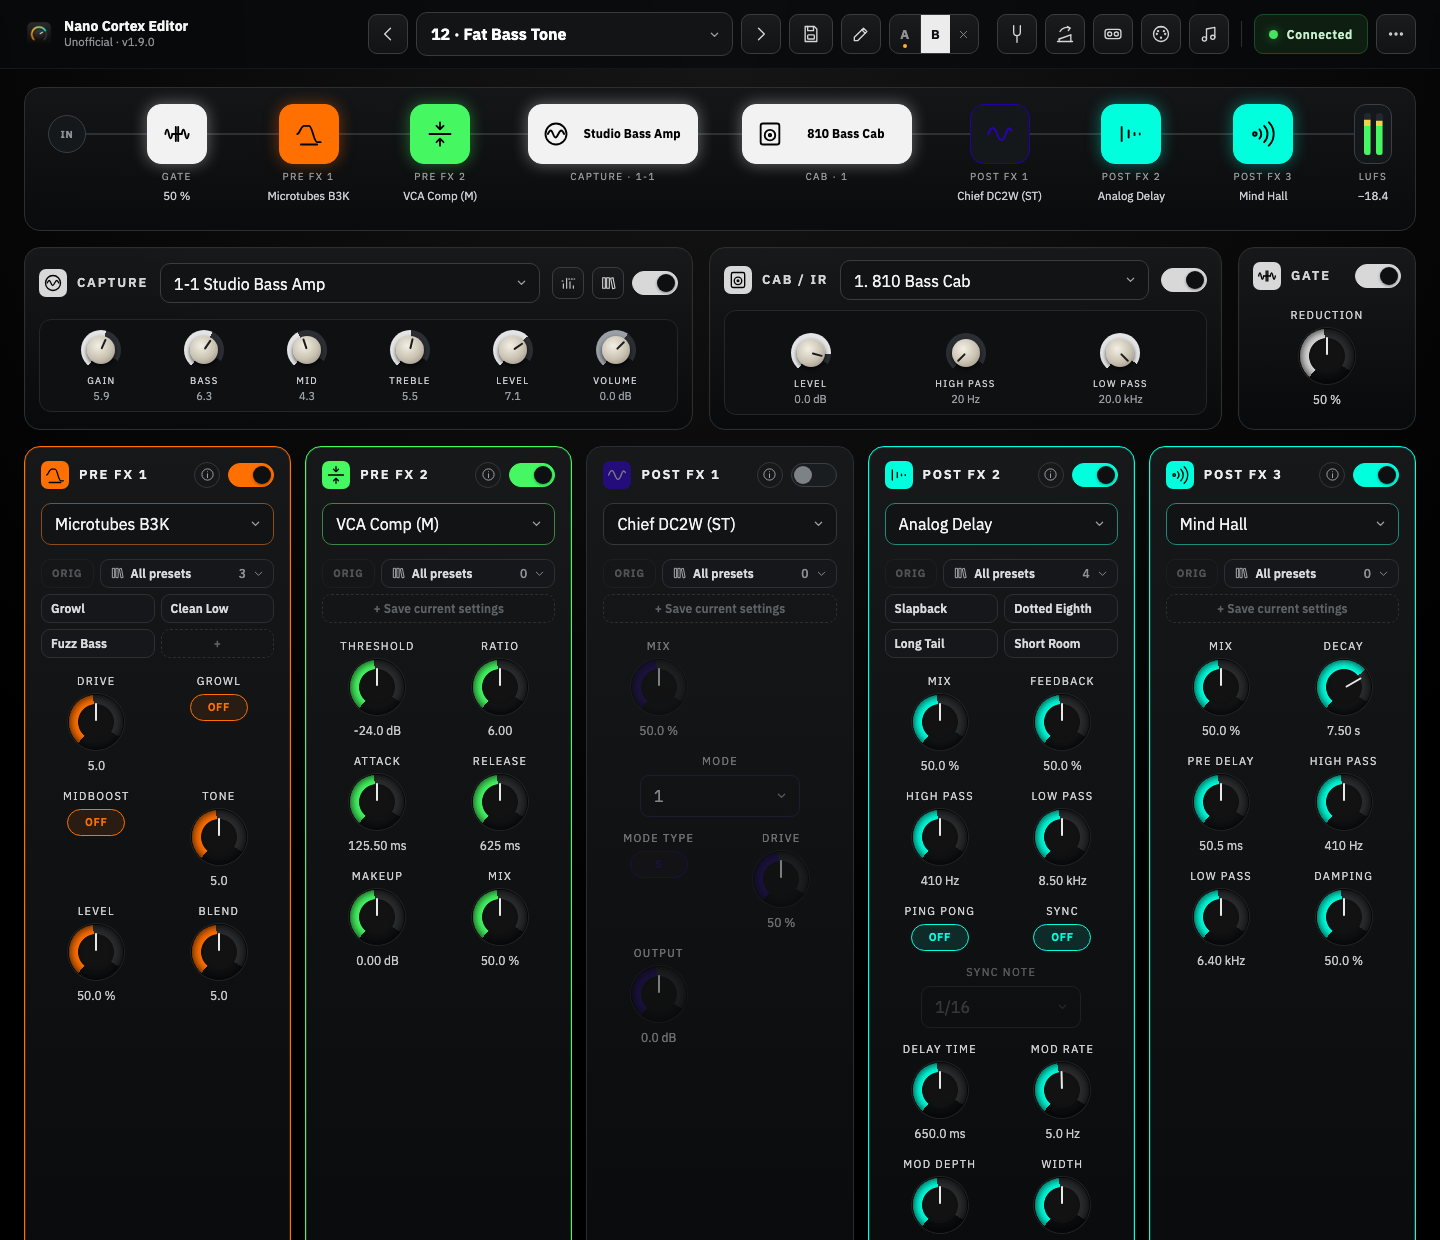
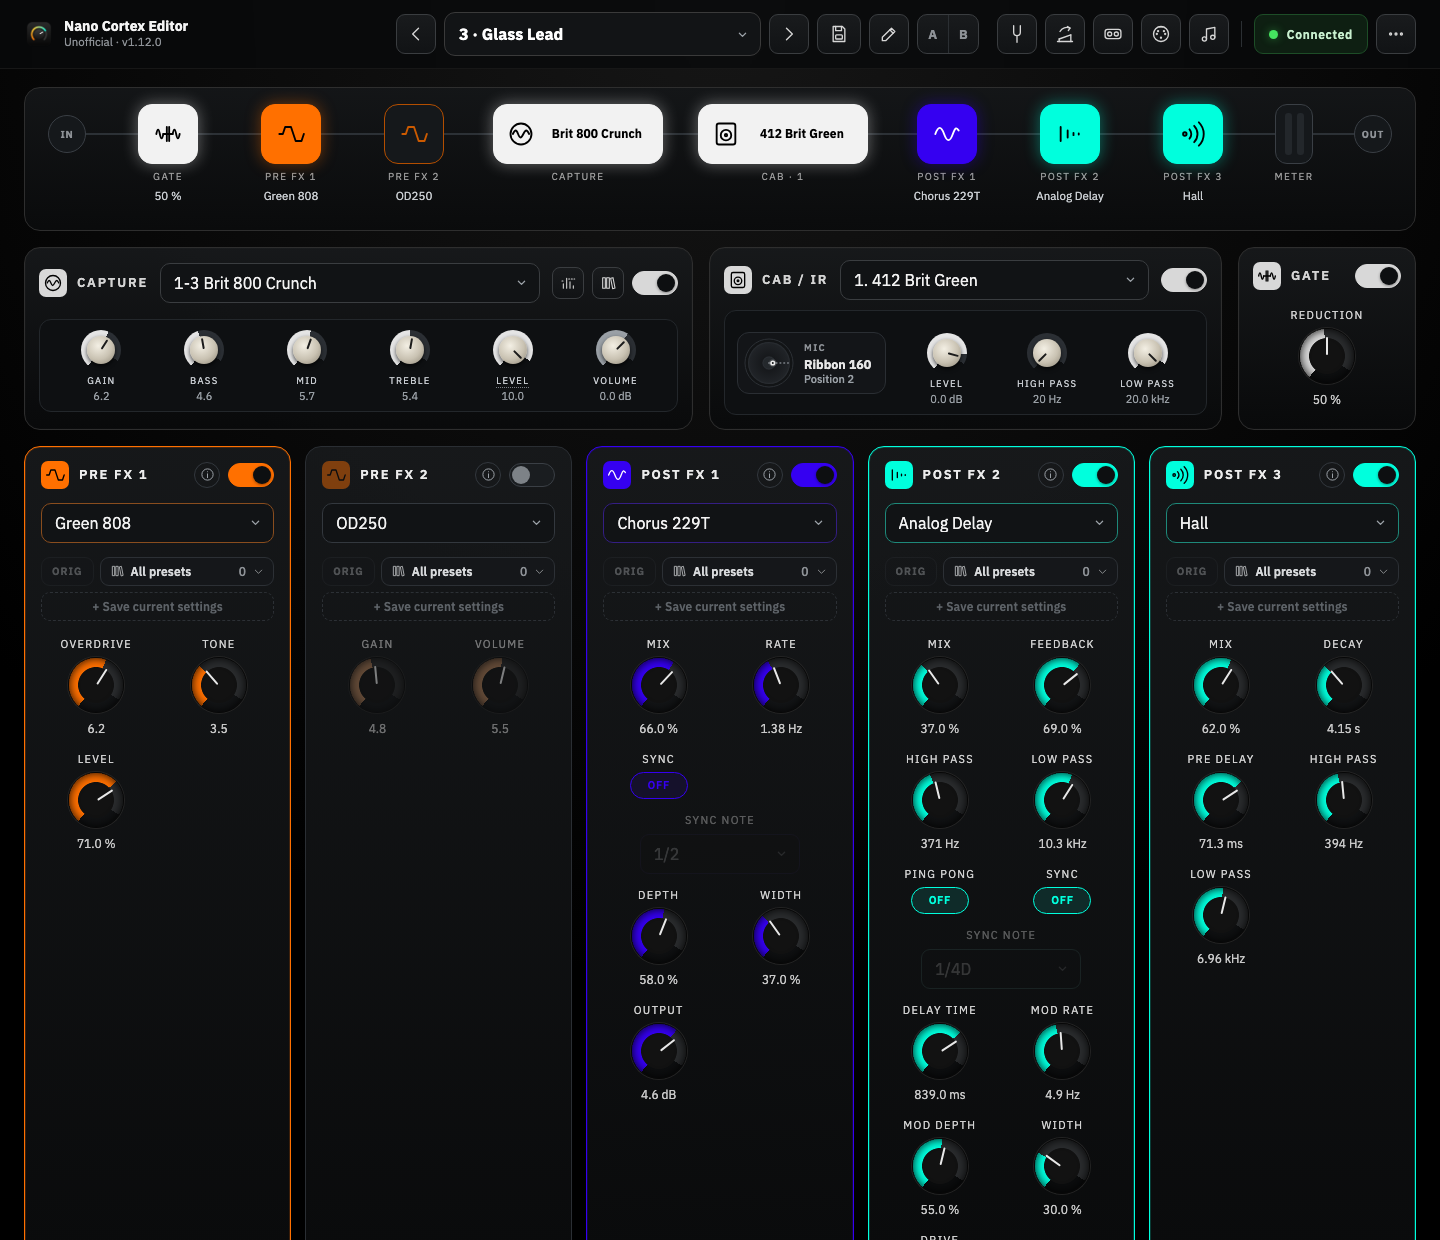
Preset sharing

diff --git a/index.html b/index.html
@@ -1859,6 +1859,7 @@
       <div class="tuner-head">
         <div class="block-title" style="--block-color: #f2f2f2;"><span class="fx-icon" style="--icon: var(--ico-list)"></span><h2 class="dlg-title">Shared presets</h2></div>
         <div class="head-actions">
+          <button id="sharedRefresh" class="btn-small" title="Ask GitHub again – for a preset that was just shared">Refresh</button>
           <button id="sharedShare" class="btn-small" title="Share the current preset on GitHub">Share this preset…</button>
           <button id="sharedClose" class="dlg-close" title="Close (Esc)" aria-label="Close"><span class="ico" style="--icon: var(--ico-close)"></span></button>
         </div>
@@ -7060,13 +7061,13 @@ function parseSelectedCaptureState(payload) {
 
     // ---- Shared presets (GitHub) ----
     // Presets are shared as issues of the editor's project on GitHub, written with the form
-    // .github/ISSUE_TEMPLATE/preset.yml (label "preset"): name, short description, the exact name of the capture and
-    // where to get it, and the preset file. The editor lists the open ones (GitHub's API without login: 60 requests an
-    // hour) and checks for each whether its capture and cab are on this Nano - in a slot, in its library (the import
-    // loads them), or missing, with the exact name to look for. Closing an issue (or taking its label away) takes a
-    // preset off the list.
+    // .github/ISSUE_TEMPLATE/preset.yml: name, short description, the exact name of the capture and where to get it,
+    // and the preset file. The editor lists every open issue that holds a preset - with or without the label
+    // "preset", which GitHub only gives when the label exists (the first two presets came without it) - through
+    // GitHub's API without login (60 requests an hour), and checks for each whether its capture and cab are on this
+    // Nano: in a slot, in its library (the import loads them), or missing, with the exact name to look for. Closing an
+    // issue takes a preset off the list.
     const SHARE_REPO = 'DrD85/nano-cortex-editor';
-    const SHARE_LABEL = 'preset';
     const SHARE_FIELDS = { 'Preset name': 'name', 'Short description': 'description', 'Capture – exact name': 'capture',
       'Where to get the capture': 'source', 'Cab / IR': 'cab', 'Guitar or bass': 'instrument', 'Preset file': 'file' };
     const SHARE_URL_MAX = 6000;   // a longer form link goes without the preset (it is on the clipboard)
@@ -7127,7 +7128,7 @@ function parseSelectedCaptureState(payload) {
       shared.error = '';
       renderShared();
       try {
-        const res = await fetch('https://api.github.com/repos/' + SHARE_REPO + '/issues?labels=' + SHARE_LABEL + '&state=open&per_page=100',
+        const res = await fetch('https://api.github.com/repos/' + SHARE_REPO + '/issues?state=open&per_page=100',
           { headers: { Accept: 'application/vnd.github+json' } });
         if (res.status === 403 || res.status === 429) throw new Error('GitHub lets a computer without login ask 60 times an hour – try again in a while.');
         if (!res.ok) throw new Error('GitHub answered with ' + res.status + '.');
@@ -7218,7 +7219,8 @@ function parseSelectedCaptureState(payload) {
       const items = (shared.items || []).filter(item => !q || [item.name, item.description, item.captureText, item.source, item.instrument, item.user,
         item.data.capture && item.data.capture.name, item.data.cab && item.data.cab.name,
         ...FX_BLOCK_KEYS.map(key => item.data.fx && item.data.fx[key] && item.data.fx[key].model)].join(' ').toLowerCase().includes(q));
-      if (shared.loading && !shared.items) count.textContent = 'Loading the shared presets from GitHub …';
+      $('sharedRefresh').disabled = shared.loading;
+      if (shared.loading) count.textContent = 'Loading the shared presets from GitHub …';
       else if (shared.error) count.textContent = shared.error;
       else if (shared.items) count.textContent = items.length + (q ? ' of ' + shared.items.length : '') + ' shared preset' + (shared.items.length === 1 ? '' : 's') +
         ' – what each needs is checked against your Nano' + (state.connected ? '.' : ' once it is connected.');
@@ -7256,6 +7258,7 @@ function parseSelectedCaptureState(payload) {
     });
     $('sharedSearch').addEventListener('input', e => { shared.q = e.target.value; renderShared(); });
     $('sharedClose').addEventListener('click', closeShared);
+    $('sharedRefresh').addEventListener('click', () => loadShared(true));
     $('sharedShare').addEventListener('click', () => { closeShared(); openShare(); });
     $('sharedOverlay').addEventListener('click', e => { if (e.target === $('sharedOverlay')) closeShared(); });
     $('sharedBtn').addEventListener('click', openShared);

diff --git a/README.md b/README.md
@@ -56,10 +56,12 @@ It runs in the browser (Chrome, Edge – online at **https://drd85.github.io/nan
 - **Output level** (Mac app, Nano connected with a USB-C cable as well): a small stereo meter before the **OUT** of the
   signal chain shows the Nano's sound from its USB audio (channels 3/4) – peaks left and right, below them the loudness in
   LUFS. Click it for the large meter. macOS asks once for the audio input ("microphone"); nothing is recorded
-- **Auto level**: choose **Clean**, **Drive**, **Solo** or **Fuzz**, press **Start** and play for four seconds – with
-  Level at 10 (full output), the capture volume is set so that the preset lands on the loudness of its kind (clean
-  lowest, solo about 3 dB above drive) and its peaks stay below full scale. The four targets can be changed;
-  **Only measure** reads a preset you like and can take it as the target
+- **Auto level**: choose **Clean**, **Edge**, **Drive**, **Fuzz** or **Lead**, press **Start** and play for four
+  seconds – with Level at 10 (full output), the capture volume is set so that the preset lands on the loudness of its
+  kind and its peaks stay below full scale. The targets follow the dynamics of a band: Clean is the quietest, Edge,
+  Drive and Fuzz sound a little louder, Lead stands out over Drive. **Quiet** (at home) or **Rehearsal** (loud with the
+  band) corrects for how the ear hears at that volume. **Only measure** reads a preset you like and can take it as
+  the target
 - **Jam tracks**: a player along the bottom of the window (the note symbol). Choose the folder with your backing
   tracks once: every track is measured and played at one loudness just below your presets, so you can play along
   without touching a volume – the files stay as they are. A track that still sits differently against the guitar
@@ -164,16 +166,27 @@ recorded or sent anywhere.
   of playing (pauses do not count) the capture volume moves by the distance to the target, at most so far that the
   peaks stay 1 dB below full scale. **Undo** takes it back, **Save** keeps it. If the capture volume reaches the end of
   its range (−24 to +12 dB), the note says how much is missing.
-- **Level at 10**: the signal on USB follows the preset's Level (the LEVEL knob on the Nano). So Auto level first reads
+- **Level at 10**: the signal on USB follows the Nano's Level (its LEVEL knob, the master volume). So Auto level first reads
   the preset from the Nano and measures with Level at 10, the full output, and leaves it there – the capture volume
   alone sets how loud a preset is, and all presets compare. If Level is lower, the first press says so and the second
   sets it: that gets louder, so turn your monitors down first. Auto level changes nothing else.
 - **Levelled presets**: the editor remembers for each preset what it was levelled as and how loud it measured. The
-  preset list shows it behind the name – `✓ Drive −19.0` on target, `Drive −21.3 (−2.3)` beside it – once the preset
+  preset list shows it behind the name – `✓ Drive −17.5` on target, `Drive −19.8 (−2.3)` beside it – once the preset
   is saved. The note goes when the saved preset no longer fits it (another capture volume, Level off 10) or with
   **Forget** in the dialog. It is kept in this browser or app, not on the Nano.
-- **Targets**: Clean −20, Drive −19, Solo −16 and Fuzz −19 LUFS are a starting point. They can be typed in; with
-  **Only measure** on a preset you like and *Take … as the target* all four move by the same amount.
+- **Targets**: made the same way as in the LUFS Meter, of three parts:
+  - **Clean**, the quietest sound, at **−20 LUFS**;
+  - **steps** – how much louder a sound should *sound* than Clean: Edge **+1.5 dB**, Drive and Fuzz **+3 dB**, Lead
+    **+3 dB over Drive**;
+  - the **profile** of where you play. At equal LUFS the mid-heavy sounds seem louder than Clean, at low volume more
+    than at high volume (equal-loudness contours, ISO 226). **Quiet** – at home, about 60–75 dB at your ears – takes
+    2 dB off Drive and Lead, 1 dB off Fuzz and 0.5 dB off Edge; **Rehearsal** – with the band, about 95–105 dB – takes
+    0.5 dB off each of them.
+
+  In Rehearsal that gives Clean −20, Edge −19, Drive −17.5, Fuzz −17.5 and Lead −14.5 LUFS; in Quiet Clean −20, Edge
+  −19, Drive −19, Fuzz −18 and Lead −16. The level of Clean and the steps can be typed in; *Take … as the target* after
+  **Only measure** moves the level of Clean and all others with it. Presets levelled as *Solo* before 1.12.0 count as
+  *Lead*. The jam tracks follow the Drive target.
 
 **Mac app or browser?** Channels 3/4 need the Mac app: it reads the input with a small helper
 (`mac-app/native/nano-meter.swift`). A browser on the Mac opens every input with more than two channels as stereo, so
@@ -192,7 +205,8 @@ m4a (AAC), wav, flac and ogg; the Mac app also plays **Apple Lossless** (m4a), A
 
 - **One level for all tracks:** each track is measured once (integrated loudness, ITU-R BS.1770, the same scale as
   the output meter) and then played with the gain that brings it to the level shown in the player. That level is
-  counted from the **Drive** target of Auto level, 2 LU below it to begin with (−21 LUFS); **−** and **+** of
+  counted from the **Drive** target of Auto level, 2 LU below it to begin with (−19.5 LUFS with the Rehearsal targets, −21 with
+  Quiet); **−** and **+** of
   *LUFS · all* move all tracks together. The files are not changed, and the measurements are remembered.
 - **The bass counts less:** of two tracks at the same LUFS, the one with less bass has more of its sound where the
   guitar plays, and seems louder against it. The tracks are therefore matched on their loudness without the bass
@@ -270,21 +284,25 @@ the Nano to the Mac is all it needs; no Bluetooth.
 
 ## Shared presets
 
-Presets are shared on GitHub, as issues of this project with the label `preset` – a small upload platform without a
-server of its own. Sharing needs a free GitHub account; looking and loading does not.
+Presets are shared on GitHub, as issues of this project made with the form *Share a preset* – a small upload platform
+without a server of its own. Sharing needs a free GitHub account; looking and loading does not.
+
+![Shared presets](docs/shared-presets.png)
 
 - **Load one:** **…** → **Shared presets**. Each card shows the description, who shared it, the capture with its exact
   name and where to get it (factory capture or Cortex Cloud and who made it), the cab, the effects – and whether your
   Nano has what the preset needs: *✓ On your Nano*, *In your Nano's library* (the import puts it into a slot) or
   *Missing on your Nano* (with **Copy name**, to look for it in Cortex Cloud). **Load into preset N** works like
-  importing a file: nothing is stored until you press **Save**. Questions and 👍 go to **On GitHub**.
+  importing a file: nothing is stored until you press **Save**. Questions and 👍 go to **On GitHub**; **Refresh** asks
+  GitHub again (for a preset that was just shared).
 - **Share one:** **…** → **Share this preset**. The editor reads the preset like for an export, puts it on the
   clipboard and opens the form [Share a preset](https://github.com/DrD85/nano-cortex-editor/issues/new?template=preset.yml)
   in the browser with the name, the capture, where to get it and the cab filled in. Paste the preset into *Preset
   file* if it is not filled in already, write a short description and submit.
-- **For the project:** the label `preset` must exist (Issues → Labels), else the form cannot set it and the editor
-  does not list the preset. Closing an issue, or taking its label away, takes a preset off the list. Without login,
-  GitHub answers a computer 60 times an hour; the editor asks once when the list opens and keeps it for ten minutes.
+- **For the project:** the editor lists every open issue that holds a preset; closing an issue takes it off the list.
+  The form also gives the label `preset` once that label exists (Issues → Labels) – handy for filtering on GitHub,
+  not needed by the editor. Without login, GitHub answers a computer 60 times an hour; the editor asks once when the
+  list opens and keeps it for ten minutes, unless you press **Refresh**.
 
 ## MIDI controller
 
@@ -344,7 +362,8 @@ Captures und Cabs lädst du aus der Library des Geräts. Dazu gibt es einen Tune
 für das Expression-Pedal und die Steuerung per MIDI-Controller mit MIDI Learn.
 Mit **A | B** vergleichst du den gemerkten Stand mit deinen Änderungen. Ist der Nano zusätzlich per USB-C verbunden,
 zeigt die Mac-App seinen Ausgangspegel (USB-Kanäle 3/4) und stellt mit **Auto level** die Capture-Lautstärke nach ein
-paar Sekunden Spielen passend für Clean, Drive, Solo oder Fuzz ein. Im Browser kommen am Mac nur die Kanäle 1/2 (DI) an.
+paar Sekunden Spielen passend für Clean, Edge, Drive, Fuzz oder Lead ein – für leise zu Hause (Quiet) oder laut mit
+der Band (Rehearsal). Im Browser kommen am Mac nur die Kanäle 1/2 (DI) an.
 Unten im Fenster lässt sich ein **Jamtrack-Player** einblenden: Ordner wählen, und alle Tracks laufen gleich laut,
 knapp unter deinen Presets; der Nano Cortex Controller schaltet sie im Looper-Modus mit den Fußschaltern.
 Die EQ-Modelle zeigen eine **Kurve mit Punkten zum Ziehen** statt Knopfreihen, in der Mac-App mit dem Spektrum des
